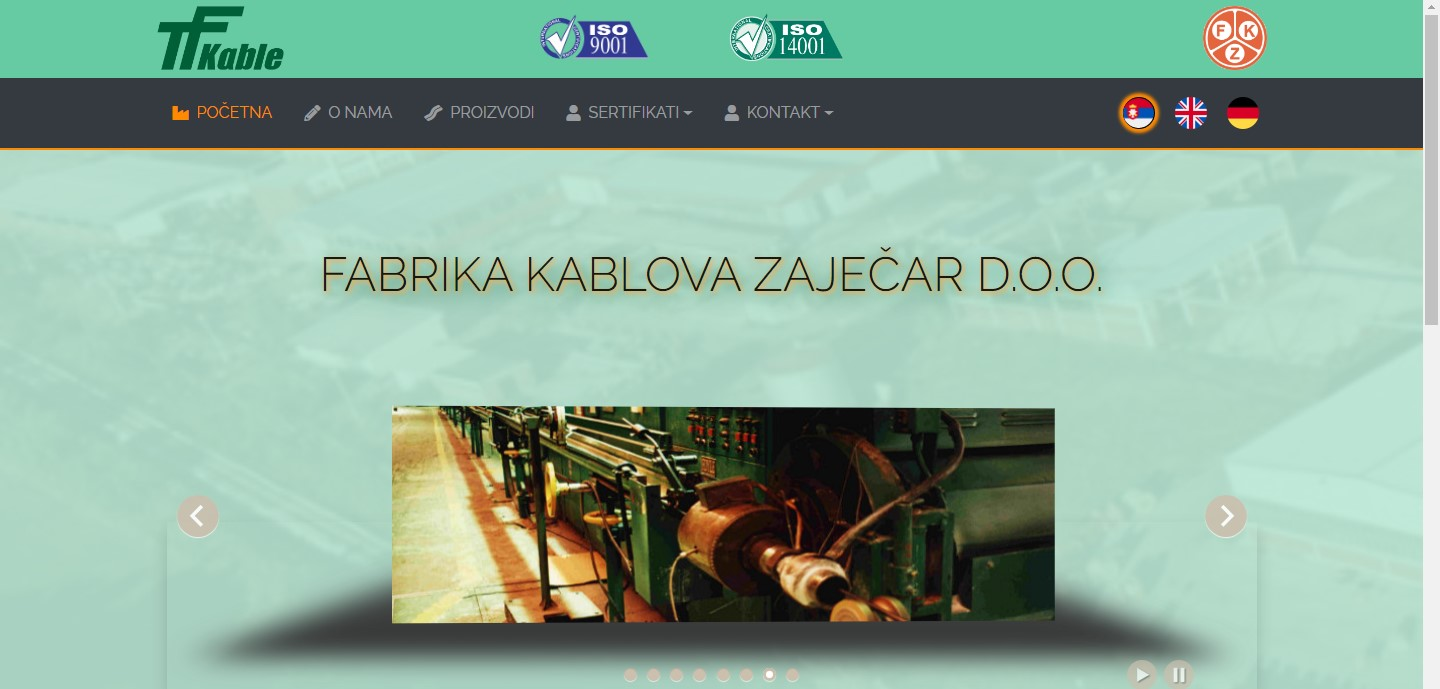
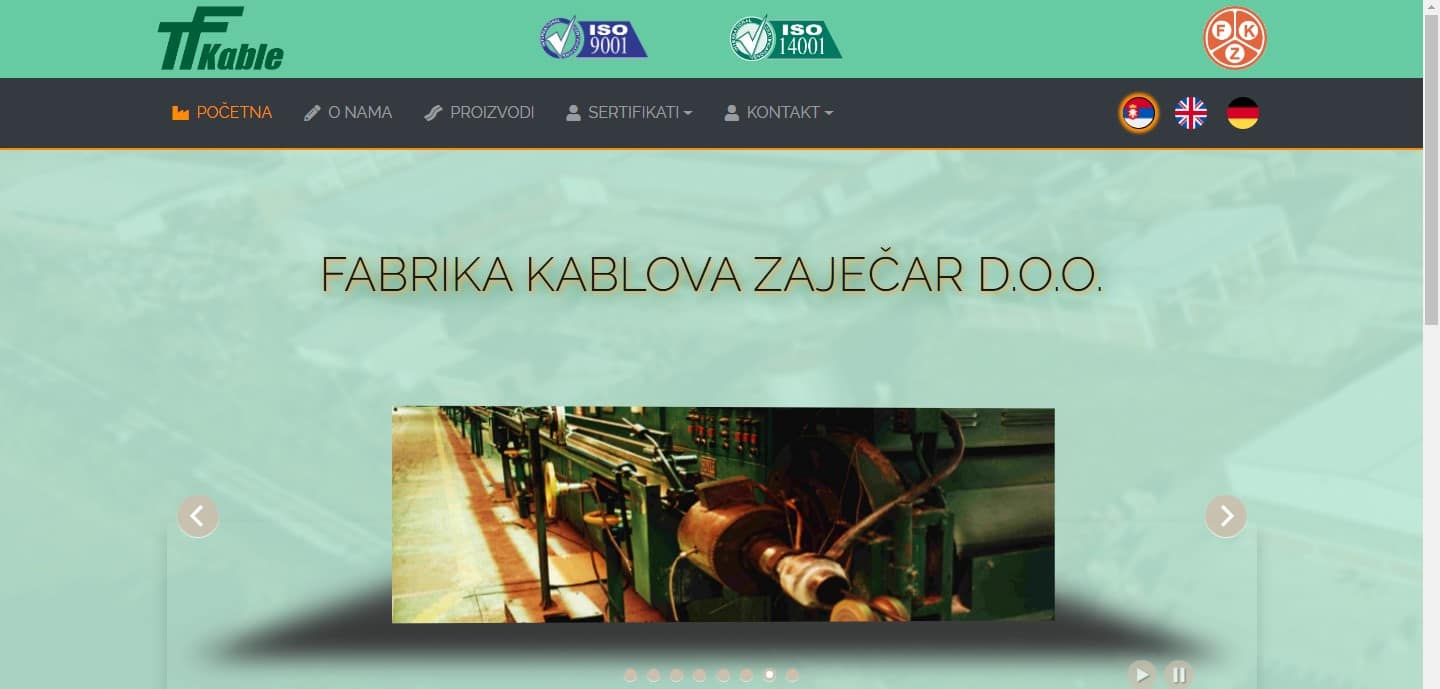
index.html - zavrsena front, main i contact deo

diff --git a/index.html b/index.html
@@ -21,38 +21,116 @@
     <div class="container">
         <section class="front">
             <div class="center">
+                <a class="btn__contact" href="#contact">Contact</a>
                 <h1 class="front-title">Welcome to my web presentation!</h1>
                 <div class="front-body">
-                    <p>I am happy to see you here and to show you my work.</p>
+                    <p>I am happy to see you here</p>
                     <p>Bellow you can find en examples of my work</p>
                 </div>
             </div>
         </section>
 
+        <hr class="line">
+
         <main class="main">
             <div>
                 <div class="main-header">
-                    <h2>All these pages are products of real-life needs and practicing, built using different techniques, both front-end & back-end.</h2>
-                    <p>Hover over each item and see short description about that webpage. Also you can click on it and explore that page.</p>
+                    <h3>All these pages are products of real-life needs and practicing, built using different techniques, both front-end & back-end.</h3>
+                    <!-- <p>Hover over each item and see short description about that webpage. Also you can click on it and explore that page.</p> -->
                 </div>
                 <div class="main-body">
                     <div class="card">
                         <div class="card-body">
                             <a href="/resources/pages/napon-mont/index.html" target="_blank">
-                            <figure>
-                                <img src="/resources/img/napon-mont.png" alt="napon-mont-v1">
-                                <figcaption>Napon-Mont ver. 1</figcaption>  
-                            </figure>
+                                <img src="/resources/img/napon-mont-1.PNG" alt="napon-mont-v1">
+                            </a>
                         </div> 
                         <div class="card-footer">
+                            <h4>Napon-Mont v1</h4>
                             <p>This webpage is one of my very first projects.</p>
-                            <p>It is built using pure HTML and CSS. Of course, Java Script basic DOM manipulation and some of jQuery popular libraries (waypoint, smooth scroll...) are also included.</p>   
+                            <p>A real-life example, built using pure HTML and CSS. Of course, Java Script basic DOM manipulation and some of jQuery popular libraries (waypoint, smooth scroll...) are also included.</p>   
+                        </div>                     
+                    </div>
+
+                    <div class="card">
+                        <div class="card-body">
+                            <a href="/resources/pages/napon-montV2/index.html" target="_blank">
+                                <figure>
+                                    <img src="/resources/img/nmV2.png" alt="napon-mont-v2">
+                                </figure>
+                            </a>
                         </div> 
-                    </a>
+                        <div class="card-footer">
+                            <h4>Napon-Mont v2</h4>
+                            <p>The same goal as Napon-Mont v1.</p>
+                            <p>It is built using Bootstrap. Instead single page it uses couple of pages for different menu options.</p>   
+                        </div>                     
+                    </div>
+
+                    <div class="card">
+                        <div class="card-body">
+                            <a href="/resources/pages/webapiapp/index.html" target="_blank">
+                                <figure>
+                                    <img src="/resources/img/PicAPIApp.PNG" alt="webApiApp">
+                                </figure>
+                            </a>
+                        </div> 
+                        <div class="card-footer">
+                            <h4>For Fun</h4>
+                            <p>A page created just for fun and practicing Java Script and it's MVC hierarchy model.</p>
+                            <p>Main goal of this webpage is to chain several public APIs - first API for fetching free pictures (with coordinates if they are provided), second one for translation those coords indo adrressess, third for google maps and showing it on map and the forth for loading weather forecast for that area. Both , maps and forecast depend on coordinates attached with picture.</p>   
+                        </div>                     
+                    </div>
+
+                    <div class="card">
+                        <div class="card-body">
+                            <a href="/resources/pages/fkz/resources/localization/sr/index.html" target="_blank">
+                                <figure>
+                                    <img src="/resources/img/fkz.jpg" alt="fkz">
+                                </figure>
+                            </a>
+                        </div> 
+                        <div class="card-footer">
+                            <h4>TF Kable Fabrika Kablova Zaječar</h4>
+                            <p>Another Bootstrap project and real-life example.</p>
+                            <p>This is just a shell, basic structure of one potentially large web presentation. </p>   
+                        </div>                     
+                    </div>
+
+                    <div class="card">
+                        <div class="card-body">
+                            <a href="/resources/pages/reports/index.html" target="_blank">
+                                <figure>
+                                    <img src="/resources/img/reports.PNG" alt="reports">
+                                </figure>
+                            </a>
+                        </div> 
+                        <div class="card-footer">
+                            <h4>Reports</h4>
+                            <p>Application for preparing, saving, issuing Test Reports and other things </p>
+                            <p>Real - life web application that includes front-end and back-end part. Front - end or pages are built over Bootstrap and server side generated. As a template engine, PUG is used. Back-end is done by NodeJS, it's framework Express and as a storing medium MongoDB is used.</p>   
+                        </div>                     
                     </div>
                 </div>
             </div>
         </main>
+
+        <hr class="line">
+
+        <section class="contact" id="contact">
+            <div class="center">
+                <h3>Contact info</h3>
+                <a href="mailto:vlada030@gmail.com">
+                    <i class="far fa-envelope"></i>
+                    <span>vlada030@gmail.com</span>
+                </a>
+                <a href="https://github.com/vlada030">
+                    <i class="fab fa-github"></i>
+                    <span>My Github Repository</span>
+                </a>
+            </div>
+        </section>
+
 
         <footer class="footer center">
             <p>&copy;</p>

diff --git a/resources/css/style.css b/resources/css/style.css
@@ -1,8 +1,8 @@
 :root {
     --color-primary: rgb(5, 75, 129);
     --color-primary-light: rgb(116, 185, 255);
-    /* --color-secondary: #cacc65; */
-    --color-secondary: #f9fd05;
+    --color-secondary: #cacc65;
+    --color-secondary-light: #f9fd05;
     --font-color: #dceffe;
     
 }
@@ -10,6 +10,7 @@
 html {
     box-sizing: border-box;
     font-size: 62.5%;
+    scroll-behavior: smooth;
 }
 
 *,
@@ -37,11 +38,30 @@ body {
     width: 100%;
     height: 100vh;
     background-image: linear-gradient(to Bottom Right, rgba(116, 185, 255, 0.2) 80%, rgba(116, 185, 255, 0.9)), url("/resources/img/code_1.jpg");
-
     background-size: cover;
-    background-position: top;
-
     
+}
+
+.front .btn__contact {
+    font-size: 1.8rem;
+    color: violet;
+    text-decoration: none;
+    padding: .25rem 1.5rem;
+    /* border: .2rem solid violet; */
+    text-shadow: 0 0 7px violet, 0 0 18px violet, 0 0 30px violet;
+    box-shadow: 0 0 4px violet, 0 0 12px violet, 0 0 22px violet;
+    border-radius: 5rem;
+
+    position: absolute;
+    top: 2rem;
+    right: 2rem;
+
+    transform: scale(.9);
+    transition: transform .4s;
+}
+
+.front .btn__contact:hover {
+    transform: scale(1);
 }
 
 .front-title {
@@ -60,17 +80,37 @@ body {
     text-align: center;
     
     text-shadow: 0 0 10px var(--color-primary-light), 0 0 40px var(--color-primary-light), 0 0 80px var(--color-primary-light);
-    text-shadow: 0 0 7px var(--color-secondary), 0 0 18px var(--color-secondary), 0 0 30px var(--color-secondary);
+    text-shadow: 0 0 7px var(--color-secondary-light), 0 0 18px var(--color-secondary-light), 0 0 30px var(--color-secondary-light);
     border-radius: 1rem;
     
 }
 
 .main {
     padding: 2.5rem;
+    margin: 2rem 2rem 0 2rem;
     
 }
 
+.main-header {
+    padding: 2rem;
+    margin: 0 auto;
+    margin-bottom: 10rem;
+    width: 70%;
+    
+}
+
+.main-header > h3 {
+    font-size: 2.5rem;
+    font-weight: 300;
+    color: var(--font-color);
+    text-align: center;
+    border-bottom: .1rem solid var(--color-secondary-light);
+} 
+
 .card {
+    margin-bottom: 6rem;
+    background-color: var(--color-secondary);
+
     display: flex;
     align-items: center;
     justify-content: space-around;
@@ -78,14 +118,74 @@ body {
 
 .card-body {
     flex: 0 1 50%;
+
+}
+
+.card-body a {
+    display: grid;
+    place-items: center start;
+
 }
 
 .card-body img {
-    width: 100%;
+    height: 20rem;
+    width: auto;
+    margin: 2rem;
+    box-shadow: 21px 21px 40px -10px rgba(0,0,0,0.75);
+
+    transform: scale(.9);
+    transition: transform .4s;
+
+}
+
+.card-body img:hover {
+    transform: scale(1);
 }
 
 .card-footer {
     flex: 0 1 50%;
+    padding: 2rem;
+}
+
+.card-footer h4 {
+    font-size: 2.5rem;
+    font-weight: 300;
+    margin-bottom: 2rem;
+}
+
+.card-footer p:first-of-type {
+    margin-bottom: 1rem;
+}
+
+.contact {
+    padding: 2.5rem;
+    margin: 2rem 2rem 0 2rem;
+}
+
+.contact h3 {
+    color: var(--font-color);
+    font-size: 3rem;
+    font-weight: 300;
+    margin-bottom: 2rem;
+    border-bottom: .1rem solid var(--color-secondary-light);
+}
+
+.contact a {
+    color: var(--font-color);
+    padding: 1rem 1.5rem;
+    text-decoration: none;
+    text-transform: uppercase;
+    display: flex;
+    align-items: center;
+    justify-content: center;
+
+    transform: scale(.9);
+    transition: transform .4s;
+    
+}
+
+.contact a:hover {
+    transform: scale(1);
 }
 
 .footer {
@@ -105,4 +205,13 @@ body {
     height: 100%;
     display: grid;
     place-items: center;
+}
+
+.line {
+    border: .1rem solid var(--font-color);
+}
+
+i {
+    font-size: 3rem;
+    margin-right: 1rem;
 }
